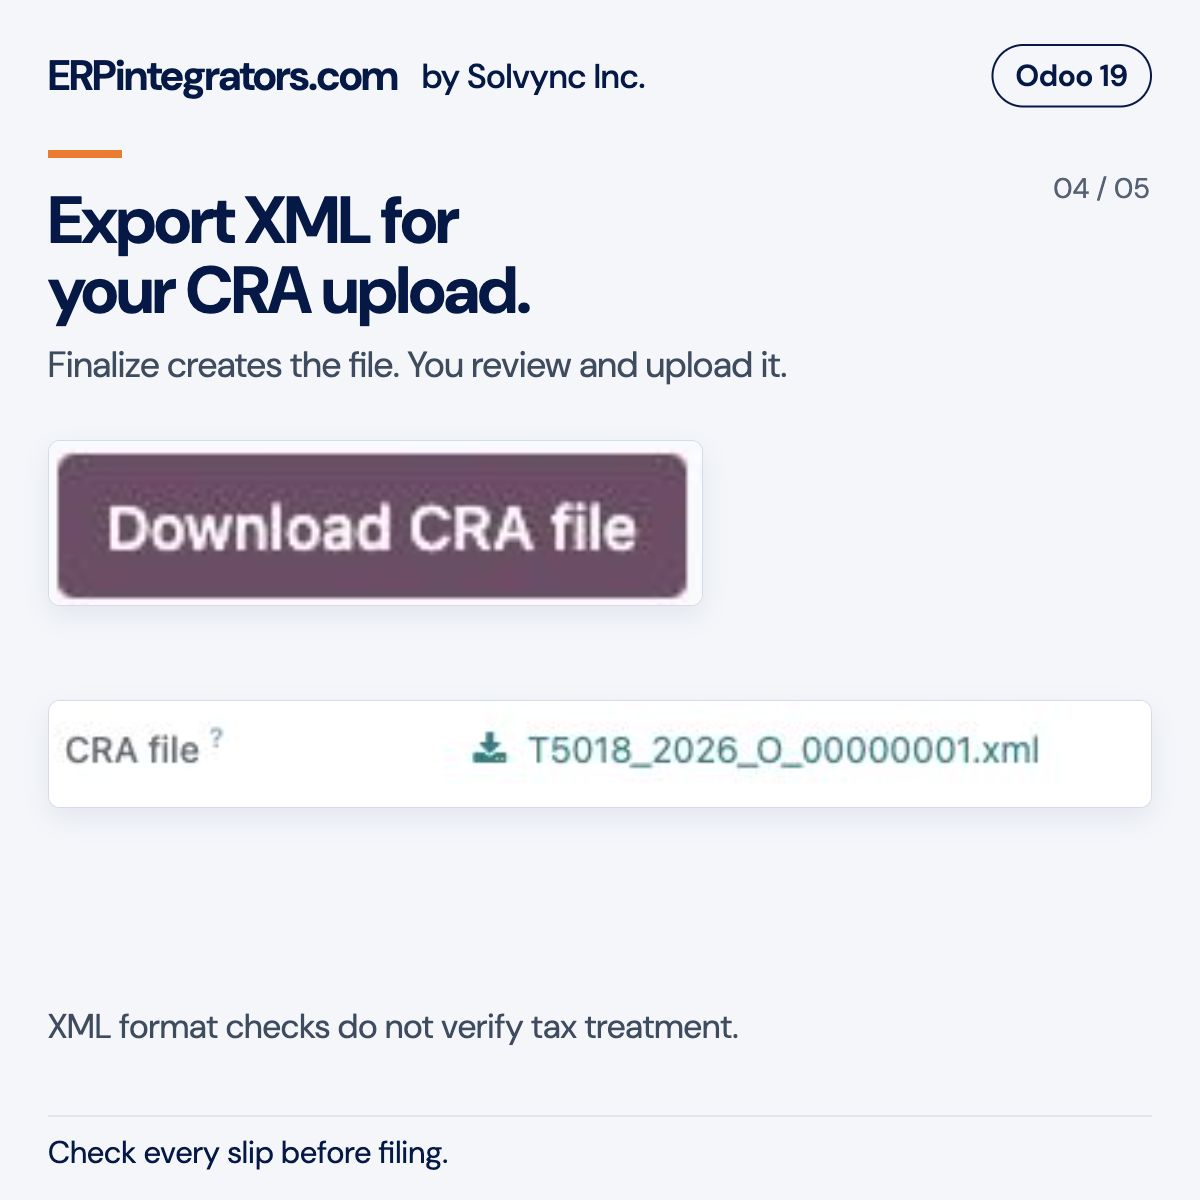
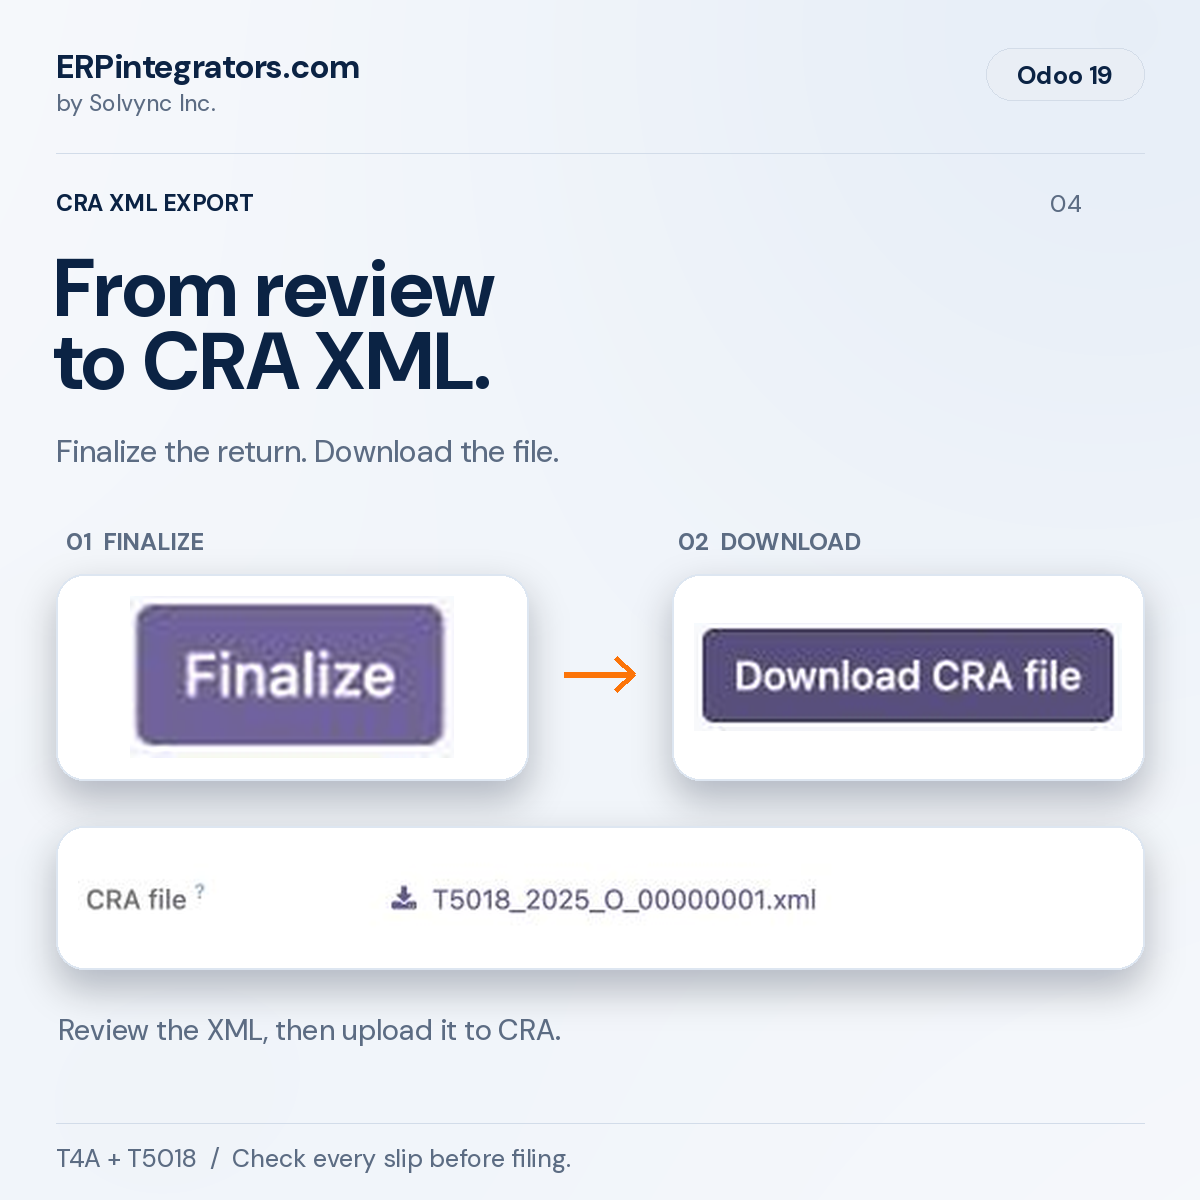
Publish modern workflow cards and version-specific walkthrough

diff --git a/l10n_ca_contractor_slips/static/description/index.html b/l10n_ca_contractor_slips/static/description/index.html
@@ -2,7 +2,7 @@
 <h1 itemprop="name" id="t4a-and-t5018-slips">T4A and T5018 Slips</h1>
 <section class="mb-4">
 <h2>Release details</h2>
-<p>Version <span itemprop="softwareVersion">19.0.1.2</span>, stable release.</p>
+<p>Version <span itemprop="softwareVersion">19.0.1.3</span>, stable release.</p>
 <p itemprop="softwareRequirements">Requires Odoo 19 Community or Enterprise, on Odoo.sh or your own server. Odoo Online is not supported.</p>
 <p><span itemprop="offers" itemscope="" itemtype="https://schema.org/Offer">Module price: US$<span itemprop="price">199</span> <span itemprop="priceCurrency">USD</span>.</span> Hosting, Odoo subscriptions and separately agreed services are excluded.</p>
 <p>Published by ERPintegrators.com, by <span itemprop="publisher" itemscope="" itemtype="https://schema.org/Organization"><span itemprop="name">Solvync Inc.</span></span>. Check every slip against your records before filing.</p>
@@ -57,28 +57,38 @@ module downloads CRA's public XML schemas from canada.ca the first time
 you finalize a return.</p>
 <h2 id="review-the-contractor-reporting-workflow">Review the contractor
 reporting workflow</h2>
-<p>These screens show a staged T5018 return in Odoo 19 Enterprise.
-Names, amounts and records are demo data. The module also supports T4A
-box 048. Each image focuses on one part of the workflow; the accounting
-and filing limits below apply to both editions.</p>
+<p>These screens show fictional T5018 records in Odoo 19 Community. The
+closed 2025 calendar return has three slips totalling CAD34,650. The
+example uses the 2026 XML submission format. The accounting and filing
+limits below apply to both Community and Enterprise.</p>
 <div class="row">
 <div class="col-12 col-lg-6 mb-4">
-<img class="img-fluid" width="1200" height="1200" src="screenshots/01-reporting-period.png" alt="T5018 return in Odoo showing the reporting period, ten slips and a total reported of 778,869 Canadian dollars" />
+<img class="img-fluid" width="1200" height="1200" src="screenshots/01-reporting-period.png" alt="T5018 return in Odoo 19 showing the closed 2025 calendar period, three slips and CAD34,650 reported" />
 </div>
 <div class="col-12 col-lg-6 mb-4">
-<img class="img-fluid" width="1200" height="1200" src="screenshots/02-reported-amount.png" alt="A contractor's T5018 slip showing 186,400 dollars before tax and 195,720 dollars reported with tax" />
+<img class="img-fluid" width="1200" height="1200" src="screenshots/02-reported-amount.png" alt="T5018 example: Cedarline Framing Ltd., CAD24,000 before tax and CAD25,200 reported with tax" />
 </div>
 <div class="col-12 col-lg-6 mb-4">
-<img class="img-fluid" width="1200" height="1200" src="screenshots/03-payment-trace.png" alt="The payment trace on an Odoo contractor slip, with four paid dates and the vendor bills each payment settled" />
+<img class="img-fluid" width="1200" height="1200" src="screenshots/03-payment-trace.png" alt="Two dated matched vendor bills supporting Cedarline Framing Ltd. T5018 payments" />
 </div>
 <div class="col-12 col-lg-6 mb-4">
-<img class="img-fluid" width="1200" height="1200" src="screenshots/04-cra-xml.png" alt="A finalized T5018 return with Download CRA file and its generated XML attachment, prepared for the buyer to upload" />
+<img class="img-fluid" width="1200" height="1200" src="screenshots/04-cra-xml.png" alt="Finalized T5018 return with Download CRA file, ready for review and separate upload to CRA" />
 </div>
 <div class="col-12 col-lg-6 mb-4">
-<img class="img-fluid" width="1200" height="1200" src="screenshots/05-recipient-portal.png" alt="The contractor portal listing a T5018 for 2026, the recipient's amount and a PDF download link" />
+<img class="img-fluid" width="1200" height="1200" src="screenshots/05-recipient-portal.png" alt="Recipient portal showing the contractor's own 2025 T5018 slip, CAD25,200 reported and a PDF download" />
 </div>
 </div>
 
+<h3 id="watch-the-workflow-in-odoo-19">Watch the workflow in Odoo
+19</h3>
+<img class="img-fluid" width="720" height="450" src="t4a-t5018-odoo-19-walkthrough.gif" alt="Odoo 19 T5018 walkthrough: calculate three slips, inspect the amount and payment trace, finalize and download the CRA XML file" />
+
+<p>This 16-second walkthrough uses a camera and cursor over reproduced
+Odoo screens. Calculate slips, review the contractor's amount and
+matched bills, finalize, then download the CRA file. Review the file and
+upload it to CRA separately using your own authorized account.
+Downloading the XML does not file the return or establish CRA
+acceptance.</p>
 <h2 id="questions-about-t4a-and-t5018-in-odoo">Questions about T4A and
 T5018 in Odoo</h2>
 <h3 id="which-t4a-slips-does-this-module-prepare">Which T4A slips does

diff --git a/l10n_ca_contractor_slips/__manifest__.py b/l10n_ca_contractor_slips/__manifest__.py
@@ -3,7 +3,7 @@
 {
     "name": "T4A and T5018 Slips",
     "summary": "T4A box 048 and T5018 contractor tax slips for Odoo, with payment traces, CRA XML and recipient PDFs",
-    "version": "19.0.1.2",
+    "version": "19.0.1.3",
     "category": "Accounting/Localizations/Reporting",
     "author": "ERPintegrators.com (Solvync Inc.)",
     "website": "https://erpintegrators.com",

diff --git a/l10n_ca_contractor_slips/readme/SCREENS.md b/l10n_ca_contractor_slips/readme/SCREENS.md
@@ -1,26 +1,35 @@
 ## Review the contractor reporting workflow
 
-These screens show a staged T5018 return in Odoo 19 Enterprise. Names, amounts and records
-are demo data. The module also supports T4A box 048. Each image focuses on one part of the
-workflow; the accounting and filing limits below apply to both editions.
+These screens show fictional T5018 records in Odoo 19 Community. The closed 2025 calendar
+return has three slips totalling CAD34,650. The example uses the 2026 XML submission format.
+The accounting and filing limits below apply to both Community and Enterprise.
 
 <div class="row">
 <div class="col-12 col-lg-6 mb-4">
-<img width="1200" height="1200" src="screenshots/01-reporting-period.png" alt="T5018 return in Odoo showing the reporting period, ten slips and a total reported of 778,869 Canadian dollars" />
+<img width="1200" height="1200" src="screenshots/01-reporting-period.png" alt="T5018 return in Odoo 19 showing the closed 2025 calendar period, three slips and CAD34,650 reported" />
 </div>
 <div class="col-12 col-lg-6 mb-4">
-<img width="1200" height="1200" src="screenshots/02-reported-amount.png" alt="A contractor's T5018 slip showing 186,400 dollars before tax and 195,720 dollars reported with tax" />
+<img width="1200" height="1200" src="screenshots/02-reported-amount.png" alt="T5018 example: Cedarline Framing Ltd., CAD24,000 before tax and CAD25,200 reported with tax" />
 </div>
 <div class="col-12 col-lg-6 mb-4">
-<img width="1200" height="1200" src="screenshots/03-payment-trace.png" alt="The payment trace on an Odoo contractor slip, with four paid dates and the vendor bills each payment settled" />
+<img width="1200" height="1200" src="screenshots/03-payment-trace.png" alt="Two dated matched vendor bills supporting Cedarline Framing Ltd. T5018 payments" />
 </div>
 <div class="col-12 col-lg-6 mb-4">
-<img width="1200" height="1200" src="screenshots/04-cra-xml.png" alt="A finalized T5018 return with Download CRA file and its generated XML attachment, prepared for the buyer to upload" />
+<img width="1200" height="1200" src="screenshots/04-cra-xml.png" alt="Finalized T5018 return with Download CRA file, ready for review and separate upload to CRA" />
 </div>
 <div class="col-12 col-lg-6 mb-4">
-<img width="1200" height="1200" src="screenshots/05-recipient-portal.png" alt="The contractor portal listing a T5018 for 2026, the recipient's amount and a PDF download link" />
+<img width="1200" height="1200" src="screenshots/05-recipient-portal.png" alt="Recipient portal showing the contractor's own 2025 T5018 slip, CAD25,200 reported and a PDF download" />
 </div>
 </div>
+
+### Watch the workflow in Odoo 19
+
+<img width="720" height="450" src="t4a-t5018-odoo-19-walkthrough.gif" alt="Odoo 19 T5018 walkthrough: calculate three slips, inspect the amount and payment trace, finalize and download the CRA XML file" />
+
+This 16-second walkthrough uses a camera and cursor over reproduced Odoo screens. Calculate
+slips, review the contractor's amount and matched bills, finalize, then download the CRA file.
+Review the file and upload it to CRA separately using your own authorized account. Downloading
+the XML does not file the return or establish CRA acceptance.
 
 ## Questions about T4A and T5018 in Odoo
 
